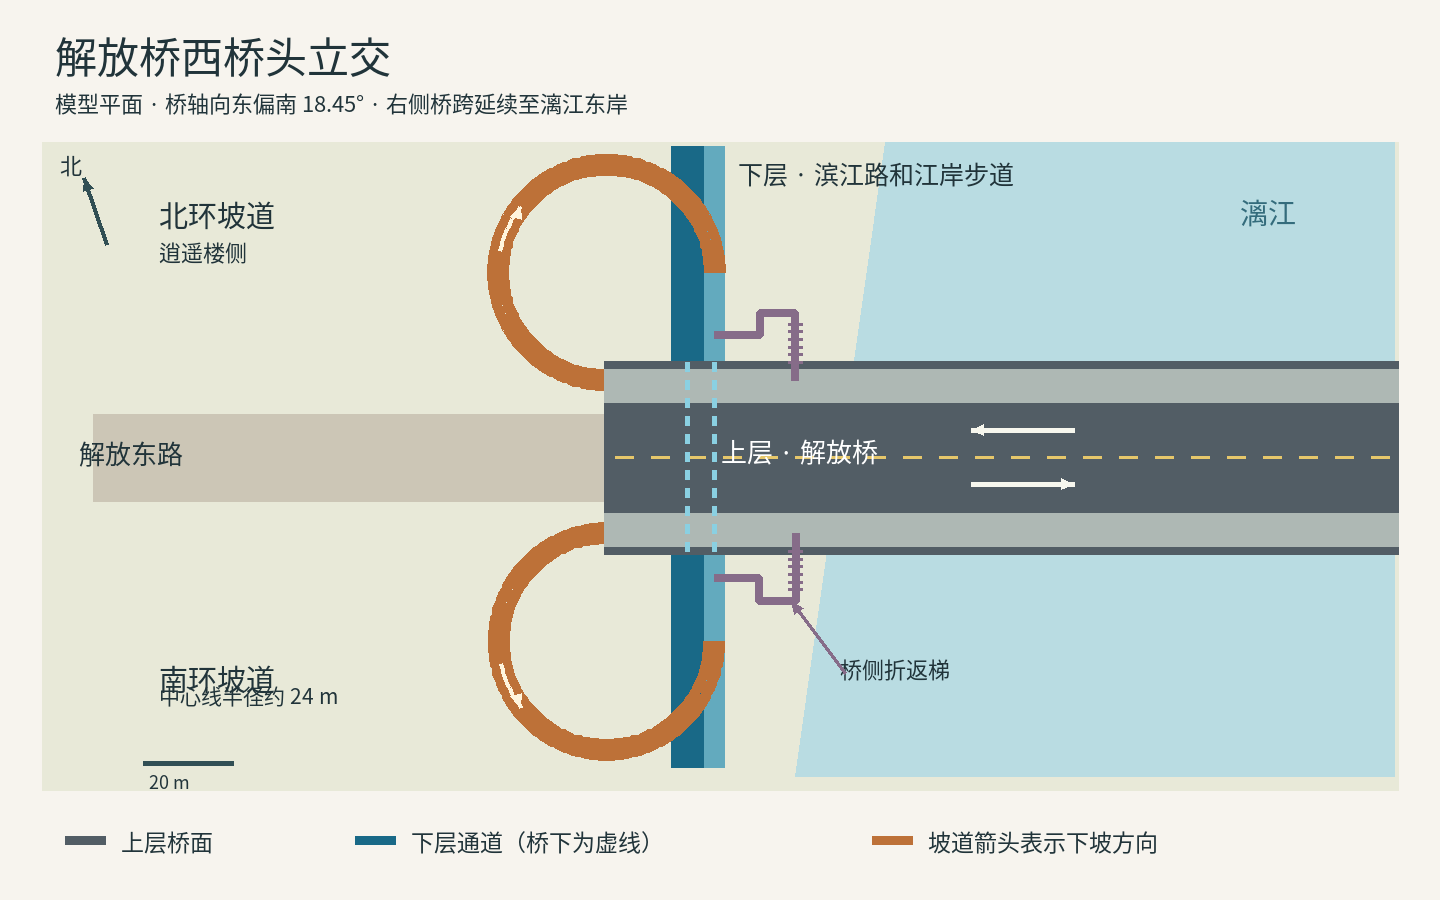
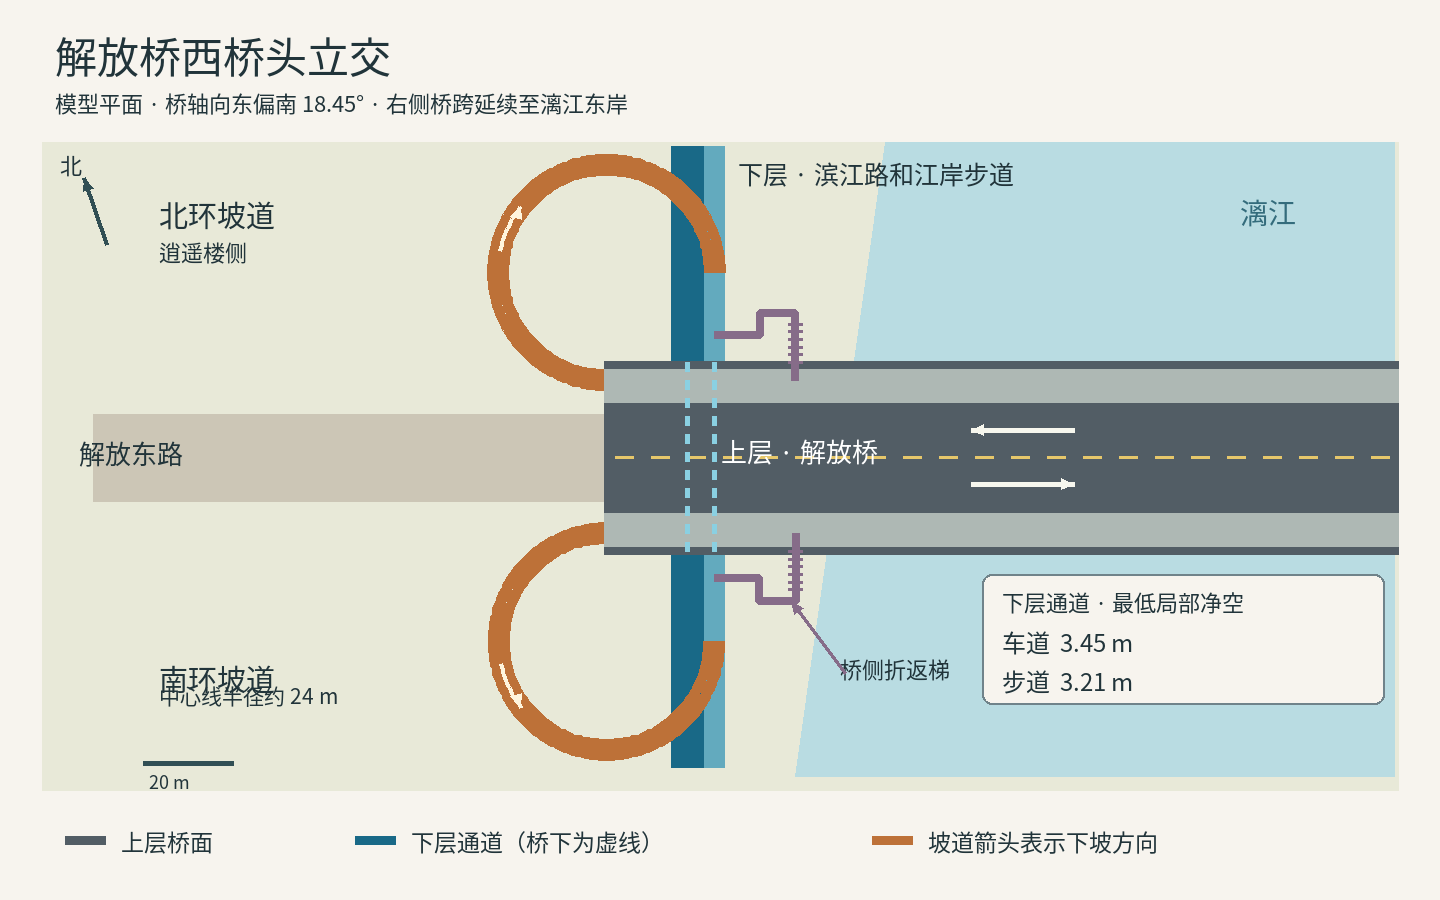
Keep open water between pier feet and match the bank and deck camera stations

Changed region(s): [[0.6562, 0.6222, 0.9688, 0.8089]]

diff --git a/pipeline/landmarks/jiefang_bridge.py b/pipeline/landmarks/jiefang_bridge.py
@@ -162,8 +162,12 @@ def west_bank(model):
     for side, tone in ((-1,'violet'),(1,'jade')):
         # The lower intersection looks across the carriageway at three towers.
         if side==1:
+            model.box(-110.8,-5.83,36.8,7.8,.82,21,'stone',True)
+            model.box(-110.8,-5.01,36.8,7.8,.10,21,'pave',True)
+            model.box(-107,-4.91,36.8,.36,.57,21,'stone',True)
+            model.beam([-107,-4,26.3],[-107,-4,47.3],.085,'white',8,True)
             for z in (30.4,36.8,43.2):
-                model.pose=(-109.5,-5.0,z,math.pi*.32 if z!=36.8 else 0)
+                model.pose=(-109.5,-4.90,z,{30.4:-.67,36.8:0,43.2:.99}[z])
                 pillar(model,'violet')
         # Bank lookouts project toward the water; the end tower frames the span.
         model.pose=(0,0,0,0)
@@ -178,6 +182,10 @@ def west_bank(model):
             model.beam([-103.5,-3.49,z],[-84.5,-3.49,z],.08,'white',8,True)
             for x in range(-103,-84,3):
                 model.beam([x,-3.9,z],[x,-3.47,z],.055,'white')
+        model.box(-84.7,-4.36,side*61,.34,.59,14,'stone',True)
+        model.beam([-84.7,-3.46,side*54],[-84.7,-3.46,side*68],.09,'white',8,True)
+        for z in (54,57.5,61,64.5,68):
+            model.beam([-84.7,-3.84,side*z],[-84.7,-3.46,side*z],.06,'white')
         model.pose=(-90.7,-4.36,side*57.1,math.pi*.14*side)
         pillar(model,'aqua' if side==1 else 'jade')
         model.pose=(0,0,0,0)
@@ -220,15 +228,15 @@ def west_bank(model):
     # of the three river-side lantern towers from the opposite kerb.
     for x in np.arange(-125,-118.4,1):
         model.box(x,-3.73,36,.48,.035,3.4,'white')
-    model.beam([-118.7,-3.8,29],[-118.7,1.7,29],.14,'granite')
-    model.beam([-118.7,1.65,29],[-120,1.65,29],.1,'granite')
-    model.box(-120,.55,29,.42,1.25,.42,'sign')
-    model.box(-120.24,1.4,29,.09,.28,.28,'knot')
+    model.beam([-118.7,-3.8,34],[-118.7,1.7,34],.14,'granite')
+    model.beam([-118.7,1.65,34],[-115.5,1.65,34],.1,'granite')
+    model.box(-115.5,.55,34,.42,1.25,.42,'sign')
+    model.box(-115.74,1.4,34,.09,.28,.28,'knot')
     model.box(-116,-4.25,0,5,.64,82,'pave',True)
     for start,end in ((-41,-29),(-25,25),(29,41)):
         model.box(-113.6,-3.61,(start+end)/2,.36,.67,end-start,'stone',True)
         model.box(-113.6,-2.68,(start+end)/2,.12,.12,end-start,'white',True)
-    pendant(model,-115.9,-3.72,28.4)
+    pendant(model,-114.35,-3.72,29.4)
     for z in range(-40,41,4):
         model.box(-113.6,-3,z,.1,.4,.1,'white')
         if abs(z)>22 and z%12==0:
@@ -255,15 +263,26 @@ def bridge(model):
             lamp_post(model,east,side)
     springings=(-92,-46,0,46,92,140.5)
     for pier in springings[:-1]:
-        model.box(pier,-8,0,4.4,6.85,width-2,'stone')
+        # The two rib feet bear on short cutwaters. Open water between them
+        # stays visible through the arch from the oblique bank stations.
         for side in (-1,1):
-            model.beam([pier,-8,side*(width/2-1)],[pier,-1.1,side*(width/2-1)],2.2,'stone',10)
+            z=side*(width/2-.35)
+            model.beam([pier,-8,z],[pier,-5.63,z],1.84,'stone',10)
+            model.box(pier,-5.69,z,3.65,.5,3.2,'granite')
+
     for side in (-1,1):
         model.box(0,-.65,side*21.4,length,.12,.15,'lamp')
         for east in np.linspace(-136,136,35 if model.detail else 13):
             model.box(east,1.26,side*21.1,.55,.24,.39,'lamp')
     for start,end in zip(springings,springings[1:]):
         river_ribs(model,start,end,width)
+    for pier in springings[1:-1]:
+        for side in (-1,1):
+            z=side*21.28
+            xs=np.linspace(-10,10,14 if model.detail else 6)
+            for a,b in zip(xs,xs[1:]):
+                face=[(pier+x,-1.63-1.65*(x/10)**2+h,z) for x,h in ((a,0),(b,0),(b,.28),(a,.28))]
+                model.mesh(face,[[0,1,2],[0,2,3]],'white')
     model.box(-138,-5.35,0,3.4,4.13,width-1,'stone',True)
     for start,end in ((-140.5,-100),(-96,140.5)):
         stone_balustrade(model,start,end)

diff --git a/pipeline/streets.py b/pipeline/streets.py
@@ -16,6 +16,8 @@ def chunks(roads,banks,bounds,water,sample,exclude,modeled_paving=None):
     fixtures = defaultdict(lambda: [[],[],[],[]])
     lengths = dict(road=0,bank=0)
     def store(which,pt,item):
+        if which==0 and modeled_paving is not None and modeled_paving.distance(pt)<2.5:
+            return
         if bounds.contains(pt) and (which!=0 or not exclude.covers(pt)):
             origin = tuple(math.floor(v/CHUNK)*CHUNK for v in pt.coords[0])
             fixtures[origin][which].append(item(origin))

diff --git a/docs/landmarks.md b/docs/landmarks.md
@@ -108,7 +108,7 @@ Rock 2026-11-18 要求：市中心关键地标按**近几年实拍照片**精细
 | 35 | 西桥头上层步道，沿路朝城区 | 左侧分隔带与吊灯，右侧铺砖人行道 |
 | 36–37 | 西桥头交叉口，向江面、略偏东南 | 桥跨在彩色门柱后，车流横过镜头 |
 | 38–39 | 西桥头路缘，回望西北侧逍遥楼、转向路口 | 城台和重檐位于道路对面 |
-| 40–42 | 西岸北侧入口和栏边，向路口、转向东南看全桥，再沿彩柱步道 | 斑马线、临水挡墙、对岸山影 |
+| 40–42 | 西岸桥头。41 在北侧临江台地，向东南看桥；42 在路缘仰看紫柱和吊灯 | 斑马线、近处彩柱、临水挡墙和对岸山影 |
 | 43–45 | 西岸滨江通道，穿过桥底后回望入口 | 头顶桥底、道路两边连续步道和临街树木 |
 | 46–48 | 西岸向东 | 对岸剧院的波浪形屋顶 |
 | 49–50 | 西岸南侧栏边向东北看桥，再转向树下步道 | 49 江在右、桥在前；50 近处树池遮挡方向 |
@@ -118,7 +118,9 @@ Rock 2026-11-18 要求：市中心关键地标按**近几年实拍照片**精细
 
 桥面位置核对采用 OSM 2026-11 快照的 `way/693451306`。将 281 × 43 m 的桥面四角按运行时锚点和旋转投影到 `common.ll2xz` 的米制平面，与 OSM 桥面多边形相交。IoU 为 0.9405，形心相距 1.38 m；OSM 最小外接矩形长轴向东偏南 18.75°，模型为 18.45°，相差 0.30°。桥下步道和两侧环道在桥面投影之外，未计入桥面面积。
 
-从桥中央到场景中伏波山中心约 730 m，方位约北偏东 6°。截图 60 用窄视角复核这条视线；现有山体在夜里比照片中暗。使用 `node scripts/jiefang-views.mjs` 重拍七个推断机位及空中斜俯视图，使用 `node scripts/jiefang-crossing.mjs` 复测角色穿桥底。
+从桥中央到场景中伏波山中心约 730 m，方位约北偏东 6°。截图 60 从桥面北侧偏东段以 24° 垂直视场越过江面复核这条视线；现有山体在夜里比照片中暗。使用 `node scripts/jiefang-views.mjs` 重拍七个推断机位及空中斜俯视图，使用 `node scripts/jiefang-crossing.mjs` 复测角色穿桥底。
+
+49 号可沿白色拱肋辨认前后数个拱口，靠左的起拱点被彩柱与折返梯遮挡，远端又被标牌遮挡。结合反向的 41 号，模型以五个约 46–49 m 的水上拱跨还原节奏。每跨两侧的拱肋落在分开的墩座上，短立柱、次拱之间留空。37、41、42、49 的截图统一固定在游戏 19:06，灯带、宫灯与街灯共用发光图集。桥面从江侧向内依次为镂空石栏、人行道及近路缘的触感带、路缘、非机动车道和机动车道。旧版 58 号所见的长黄条是铺在人行道中部的触感带，车辆中心线仍位于桥轴。
 
 #### 西桥头立交的平面与标高
 
@@ -133,14 +135,14 @@ Rock 2026-11-18 要求：市中心关键地标按**近几年实拍照片**精细
 | 主要构件 | 相对下层路面 | 估算与对照 |
 |---|---:|---|
 | 滨江路、江边步道 | 0 / +0.1 m | 43–45 中路缘仅一级，模型设 7 m 双向车道，临江侧另留 5 m 步道 |
-| 桥底顶板 | +4.0 m | 43–44 中可用行人和小客车比高。板底模型高程约 150.55 m，下层实走路面约 146.54–146.69 m |
+| 桥底拱形顶板 | 拱顶约 +4.0 m | 43–44 中可用行人和小客车比高。拱顶模型高程约 150.50 m，下层实走路面约 146.54–146.69 m |
 | 局部下挂边梁净空 | 车道 3.45 m，步道 3.21 m | 按 GL04 实际渲染的桥面外沿和下挂深度，与两条桥下测试中心线求交；最低下缘分别为 150.00、149.90 m，减去对应通行面高程。此值只描述游戏 |
 | 西桥头机动车道、人行道 | +5.3 / +5.5 m | 按顶板厚约 1.2 m 和 0.18 m 人行道路缘衔接原上层引道 |
 | 环道下口、上口 | +0.2 / +5.6 m | 两口分别接滨江步道与桥侧步道，按航拍平面半径和两端高差定坡 |
 | 折返梯中间平台 | +2.8 m | 两跑各 16 级，按每级约 0.17 m 分配高差；平面转折取自 OSM 楼梯线 |
 | 拱脚、拱顶下缘 | 约 −1.0 / +3.3 m | 随桥面纵坡变化；41、46、49 的桥侧剪影提供起拱点和矢跨比例 |
 | 临江吊灯顶、彩柱尖顶 | +4.4 / +8.7 m | 37、42 的行人、路灯及柱身可相互比高。柱子分为石基座、灯列、上部框架与尖帽 |
-| 桥面灯头 | 约 +12 m | 57–58 中灯杆从上层人行道起算约 6.6 m |
+| 桥面灯头 | 约 +12 m | 57–58 中灯杆从上层人行道起算约 7.1 m |
 | 北侧逍遥楼城台顶 / 屋脊 | 约 +11.6 / +32.1 m | 38–39 可见城台、楼身和层叠屋檐。现有模型基址 154.4 m，台顶高出基址 3.72 m，最高屋顶构件约 24.15 m |
 
 
@@ -173,7 +175,7 @@ Rock 2026-11-18 要求：市中心关键地标按**近几年实拍照片**精细
 
 | 地标 | 近景三角形 / draw call | LOD1 三角形 | GLB / 内嵌贴图（字节） |
 |---|---:|---:|---:|
-| 解放桥 | 22,728 / 6 | 8,560 | 595,852 / 216,706 |
+| 解放桥 | 37,160 / 5 | 17,804 | 927,208 / 223,114 |
 | 逍遥楼 | 12,216 / 3 | 2,322 | 222,420 / 61,723 |
 | 伏波山 | 6,828 / 3 | 1,062 | 152,280 / 61,723 |
 | 叠彩山 | 14,624 / 4 | 1,156 | 289,824 / 65,964 |
